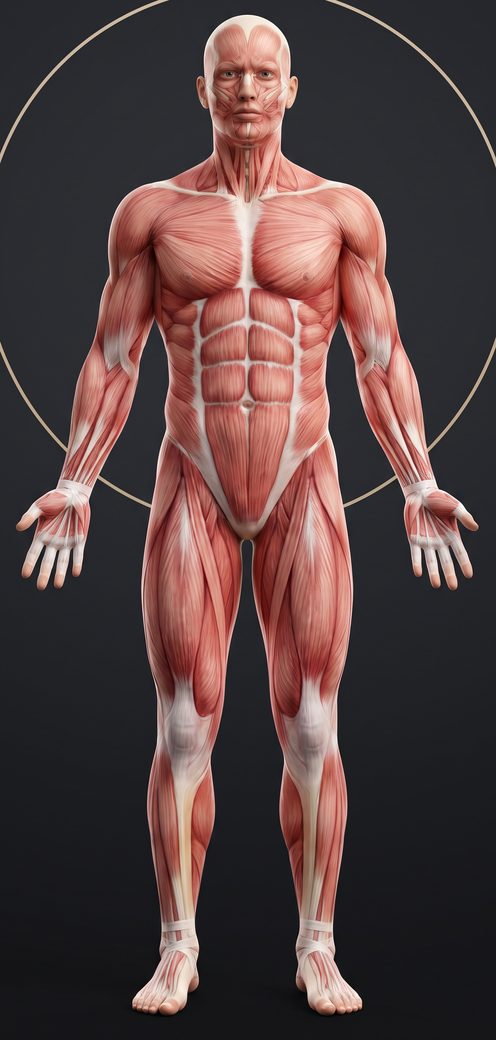
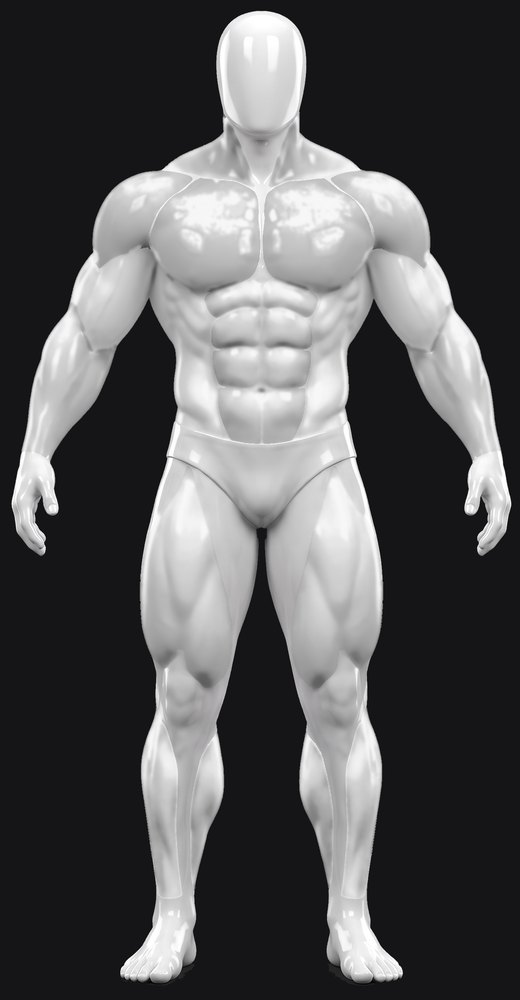
v16: Muskeln exakt in Gold mit Glanz, drei Stufen
Weisse Plastikfigur aus EL SANTOs Farbschablonen; je Muskelgruppe eine
goldene Schicht mit Licht und Glanz. Stufen: angefangen, auf Kurs, Ziel erreicht.

Claude-Session: https://claude.ai/code/session_017HdXHhE1D13B2Q2MsEX58s

diff --git a/app.js b/app.js
@@ -534,45 +534,27 @@ function monthStats(offset) {
   return st;
 }
 
-// Bereiche der 3D-Figur (Koordinaten im Originalbild 1536 × 2752, Ausschnitt ab 150/140), je Muskelgruppe: [cx, cy, rx, ry, Drehung]
-const ZONES = {
-  front: {
-    trapez: [[650, 560, 60, 34, -20], [885, 560, 60, 34, 20]],
-    schultern: [[480, 700, 70, 115, 15], [1060, 700, 70, 115, -15]],
-    brust: [[650, 750, 120, 110, 0], [885, 750, 120, 110, 0]],
-    bizeps: [[460, 890, 50, 115, 15], [1075, 890, 50, 115, -15]],
-    unterarme: [[375, 1160, 55, 165, 22], [1160, 1160, 55, 165, -22]],
-    bauch: [[766, 1090, 105, 235, 0]],
-    obliques: [[600, 1060, 48, 150, -6], [935, 1060, 48, 150, 6]],
-    quads: [[630, 1700, 110, 270, -3], [905, 1700, 110, 270, 3]],
-    waden: [[600, 2200, 75, 170, 0], [935, 2200, 75, 170, 0]],
-  },
-  back: {
-    trapez: [[770, 660, 160, 190, 0]],
-    hschulter: [[480, 700, 65, 95, 12], [1055, 700, 65, 95, -12]],
-    ruecken: [[640, 960, 110, 190, 4], [900, 960, 110, 190, -4], [610, 760, 75, 60, 0], [925, 760, 75, 60, 0]],
-    ruecken_u: [[770, 1130, 90, 110, 0]],
-    trizeps: [[465, 900, 52, 125, 12], [1075, 900, 52, 125, -12]],
-    unterarme: [[380, 1180, 55, 155, 18], [1160, 1180, 55, 155, -18]],
-    gesaess: [[680, 1360, 115, 140, 0], [860, 1360, 115, 140, 0]],
-    beinbeuger: [[640, 1730, 100, 230, -2], [915, 1730, 100, 230, 2]],
-    waden: [[610, 2110, 85, 175, 0], [945, 2110, 85, 175, 0]],
-  },
+// Muskelgruppen mit eigener Goldschicht je Ansicht (Dateien m-<seite>-<gruppe>.webp, aus der Farbschablone geschnitten)
+const LAYERS = {
+  front: ['trapez', 'schultern', 'brust', 'bizeps', 'unterarme', 'bauch', 'obliques', 'quads', 'waden'],
+  back: ['trapez', 'hschulter', 'ruecken', 'ruecken_u', 'trizeps', 'unterarme', 'obliques', 'gesaess', 'beinbeuger', 'waden'],
 };
 
-// Eine Körperansicht: 3D-Bild, darüber goldenes Leuchten. glowOf(gruppe) gibt 0–1 zurück.
-function bodyView(side, glowOf, f = 1, cls = '') {
-  const shapes = Object.entries(ZONES[side]).map(([g, list]) => {
-    const v = Math.min(1, glowOf(g));
-    if (v <= 0) return '';
-    return list.map(([cx, cy, rx, ry, rot]) =>
-      `<ellipse cx="${cx}" cy="${cy}" rx="${rx}" ry="${ry}" transform="rotate(${rot} ${cx} ${cy})" style="opacity:${(0.3 + 0.55 * v).toFixed(2)}"><title>${MUSCLE_GROUPS[g].name}</title></ellipse>`).join('');
+// Stufe aus Anteil am Ziel: 1 = angefangen, 2 = auf Kurs, 3 = Ziel erreicht
+function goldLevel(v) {
+  if (!(v > 0)) return 0;
+  return v >= 1 ? 3 : v >= 0.5 ? 2 : 1;
+}
+
+// Eine Körperansicht: weisse Figur, trainierte Gruppen exakt in Gold. levelOf(gruppe) gibt 0–3 zurück.
+function bodyView(side, levelOf, f = 1, cls = '') {
+  const layers = LAYERS[side].map((g) => {
+    const lv = levelOf(g);
+    return lv ? `<img class="gl lv${lv}" src="m-${side}-${g}.webp" alt="" decoding="async">` : '';
   }).join('');
   const label = side === 'front' ? 'Vorderseite' : 'Rückseite';
   return `<div class="body3d ${cls}" style="--sx:${f}" role="img" aria-label="${label}">
-    <img src="body-${side}.jpg" alt="" loading="lazy" decoding="async">
-    <svg viewBox="150 140 1240 2600" aria-hidden="true">
-      <g class="glow-tint">${shapes}</g><g class="glow-light">${shapes}</g></svg></div>`;
+    <img src="body-${side}.jpg" alt="" decoding="async">${layers}</div>`;
 }
 
 // Statur aus dem letzten Gewichtseintrag (80 kg schmal, 115 kg breit)
@@ -585,20 +567,20 @@ function statureFactor() {
 // Figur vorne und hinten. Gold = so viel trainiert, wie das Ziel für den Zeitraum verlangt.
 function anatomyFigure(load, weeks) {
   const { f } = statureFactor();
-  const glowOf = (g) => load[g] / (MUSCLE_GROUPS[g].target * weeks);
+  const levelOf = (g) => goldLevel(load[g] / (MUSCLE_GROUPS[g].target * weeks));
   return `<div class="figure">
-    <figure>${bodyView('front', glowOf, f)}<figcaption>Vorne</figcaption></figure>
-    <figure>${bodyView('back', glowOf, f)}<figcaption>Hinten</figcaption></figure>
+    <figure>${bodyView('front', levelOf, f)}<figcaption>Vorne</figcaption></figure>
+    <figure>${bodyView('back', levelOf, f)}<figcaption>Hinten</figcaption></figure>
   </div>`;
 }
 
 // Kleine Figur bei jeder Übung: Hauptmuskel hell gold, Hilfsmuskel gedämpft
 function exerciseFigure(id) {
   const m = MUSCLES[id] || {};
-  const glowOf = (g) => (m[g] >= 1 ? 1 : m[g] ? 0.15 : 0);
+  const levelOf = (g) => (m[g] >= 1 ? 3 : m[g] ? 1 : 0);
   const names = (w) => Object.keys(m).filter((g) => (w ? m[g] >= 1 : m[g] < 1)).map((g) => MUSCLE_GROUPS[g].name);
   const main = names(true), help = names(false);
-  return `<div class="exfig">${bodyView('front', glowOf, 1, 'mini')}${bodyView('back', glowOf, 1, 'mini')}
+  return `<div class="exfig">${bodyView('front', levelOf, 1, 'mini')}${bodyView('back', levelOf, 1, 'mini')}
     <div class="exfig-txt">${main.length ? `<span class="gold">${main.map(esc).join(', ')}</span>` : ''}${help.length ? `<span>Hilft mit: ${help.map(esc).join(', ')}</span>` : ''}</div></div>`;
 }
 
@@ -655,7 +637,7 @@ function renderStats() {
   let html = `<section class="card">
     <div class="seg small-seg">${pseg('week', 'Diese Woche')}${pseg('month', 'Dieser Monat')}</div>
     ${anatomyFigure(load, weeks)}
-    <div class="legend"><span><i class="lg0"></i>Nicht trainiert</span><span><i class="lg1"></i>Wenig</span><span><i class="lg2"></i>Ziel erreicht</span></div>
+    <div class="legend"><span><i class="lg0"></i>Nicht trainiert</span><span><i class="lg1"></i>Angefangen</span><span><i class="lg2"></i>Auf Kurs</span><span><i class="lg3"></i>Ziel erreicht</span></div>
     ${top.length ? `<p class="note"><b class="gold">Am meisten trainiert:</b> ${top.map(esc).join(', ')}</p>` : ''}
     ${todo.length ? `<p class="note"><b>Hier dran arbeiten:</b> ${todo.map(esc).join(', ')}</p>` : `<p class="note gold">Alle Muskelgruppen haben ${isMonth ? 'diesen Monat' : 'diese Woche'} genug bekommen.</p>`}
     <p class="note small">Gold leuchtet, was du ${isMonth ? 'diesen Monat' : 'diese Woche'} mit abgehakten Sätzen trainiert hast. Die Statur folgt deinem letzten Gewicht${kg ? ` (${String(kg).replace('.', ',')} kg)` : ''}.</p>

diff --git a/styles.css b/styles.css
@@ -190,15 +190,18 @@ main { padding: 6px 16px 24px; }
 .figure figure { margin: 0; text-align: center; }
 .figure .body3d { width: 100%; max-width: 170px; margin: 0 auto 4px; }
 .figure figcaption { font-size: 12px; color: var(--plat-dim); letter-spacing: .06em; text-transform: uppercase; }
-.body3d { position: relative; aspect-ratio: 1240 / 2600; transform: scaleX(var(--sx, 1)); transition: transform .5s; }
-.body3d img, .body3d svg { position: absolute; inset: 0; width: 100%; height: 100%; display: block; }
+.body3d { position: relative; aspect-ratio: 520 / 1000; transform: scaleX(var(--sx, 1)); transition: transform .5s; }
+.body3d img { position: absolute; inset: 0; width: 100%; height: 100%; display: block; }
 .body3d img { border-radius: 10px; }
 /* Gold färbt den Muskel ein und lässt ihn leuchten */
-.body3d .glow-tint { fill: #cfa865; mix-blend-mode: color; filter: blur(18px); }
-.body3d .glow-light { fill: #f0cf8a; mix-blend-mode: soft-light; filter: blur(26px); }
-.legend .lg0 { background: #6e3a3a; }
-.legend .lg1 { background: #a98a5c; }
-.legend .lg2 { background: #f0cf8a; }
+.body3d .gl { border-radius: 0; transition: opacity .4s; }
+.body3d .lv1 { opacity: .75; filter: saturate(.35) brightness(1.18); }
+.body3d .lv2 { filter: saturate(.75) brightness(1.04); }
+.body3d .lv3 { filter: saturate(1.2) brightness(1.06) contrast(1.08); }
+.legend .lg0 { background: #e5e4e2; }
+.legend .lg1 { background: #e3d3b4; }
+.legend .lg2 { background: #c99a45; }
+.legend .lg3 { background: linear-gradient(135deg, #fff1c8, #d9a63c 55%, #8a5d16); }
 .small-seg { margin-bottom: 4px; }
 .month-nav { display: flex; align-items: center; justify-content: space-between; margin-bottom: 8px; font-weight: 600; letter-spacing: .04em; }
 .month-nav button { width: 40px; height: 40px; border-radius: 10px; background: var(--surface-2); font-size: 22px; color: var(--gold); }
@@ -231,8 +234,6 @@ main { padding: 6px 16px 24px; }
 .exfig { display: flex; align-items: center; gap: 2px; margin-top: 12px; padding: 10px 12px; background: var(--surface-2); border-radius: 12px; }
 .exfig .body3d.mini { width: 46px; flex: none; }
 .exfig .body3d.mini img { border-radius: 6px; }
-.exfig .body3d.mini .glow-tint { filter: blur(12px); }
-.exfig .body3d.mini .glow-light { filter: blur(16px); }
 .exfig-txt { flex: 1; min-width: 0; margin-left: 8px; display: flex; flex-direction: column; gap: 2px; font-size: 13px; color: var(--plat-dim); }
 .exfig-txt .gold { font-weight: 600; }
 

diff --git a/sw.js b/sw.js
@@ -1,8 +1,9 @@
 // Offline-Cache. Bei Änderungen an den Dateien die Versionsnummer erhöhen.
-const CACHE = 'gym-buddy-v15';
+const CACHE = 'gym-buddy-v16';
 const FILES = [
   './', 'index.html', 'styles.css', 'data.js', 'app.js', 'manifest.webmanifest',
   'icon.svg', 'apple-touch-icon.png', 'icon-192.png', 'icon-512.png', 'body-front.jpg', 'body-back.jpg',
+  'm-back-beinbeuger.webp', 'm-back-gesaess.webp', 'm-back-hschulter.webp', 'm-back-obliques.webp', 'm-back-ruecken.webp', 'm-back-ruecken_u.webp', 'm-back-trapez.webp', 'm-back-trizeps.webp', 'm-back-unterarme.webp', 'm-back-waden.webp', 'm-front-bauch.webp', 'm-front-bizeps.webp', 'm-front-brust.webp', 'm-front-obliques.webp', 'm-front-quads.webp', 'm-front-schultern.webp', 'm-front-trapez.webp', 'm-front-unterarme.webp', 'm-front-waden.webp',
 ];
 
 self.addEventListener('install', (e) => {
